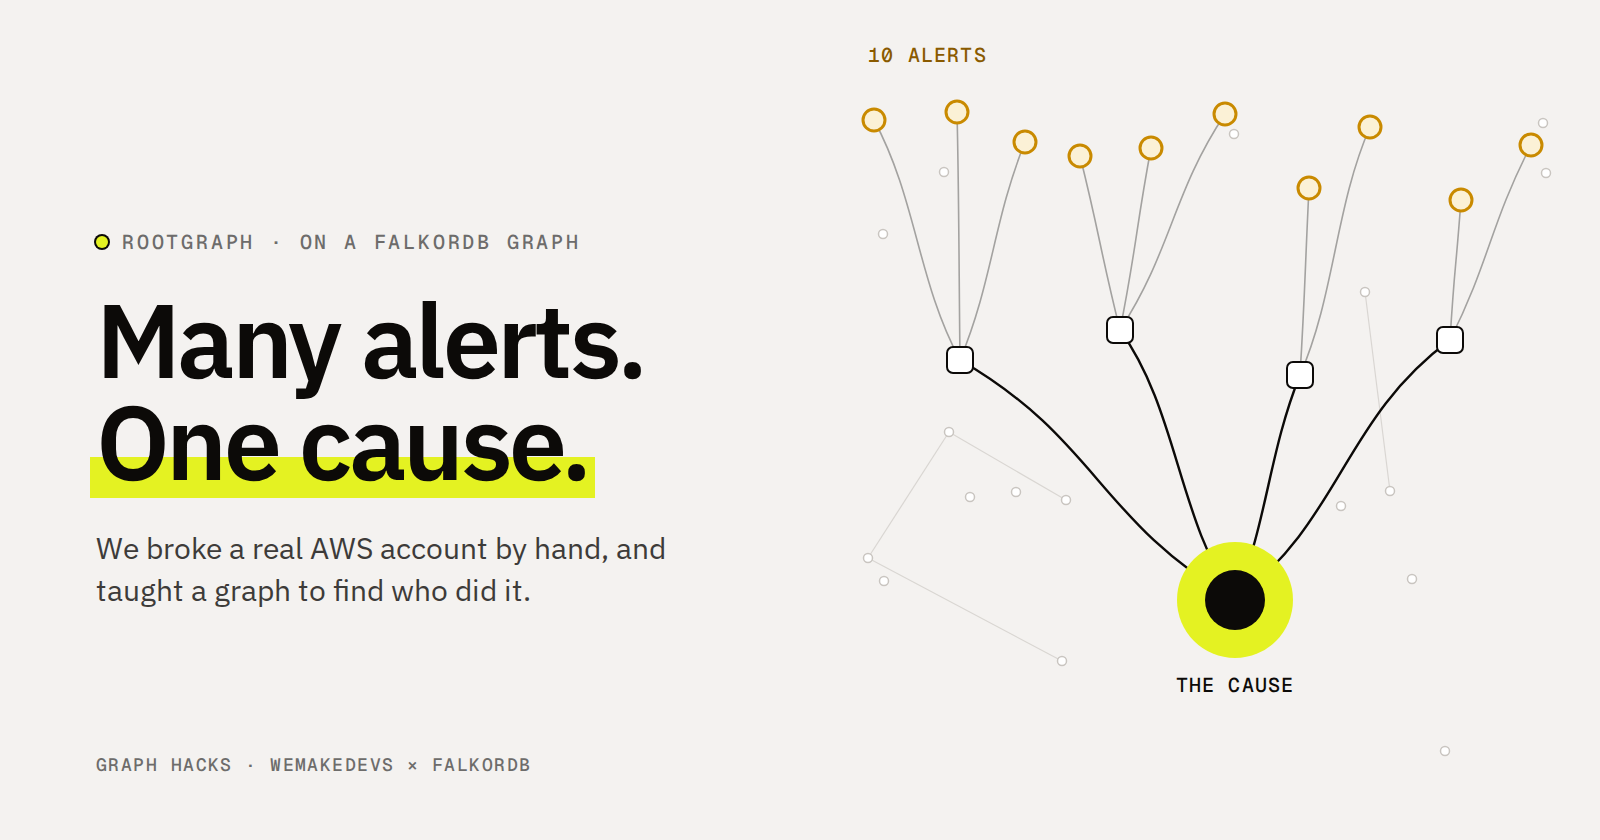
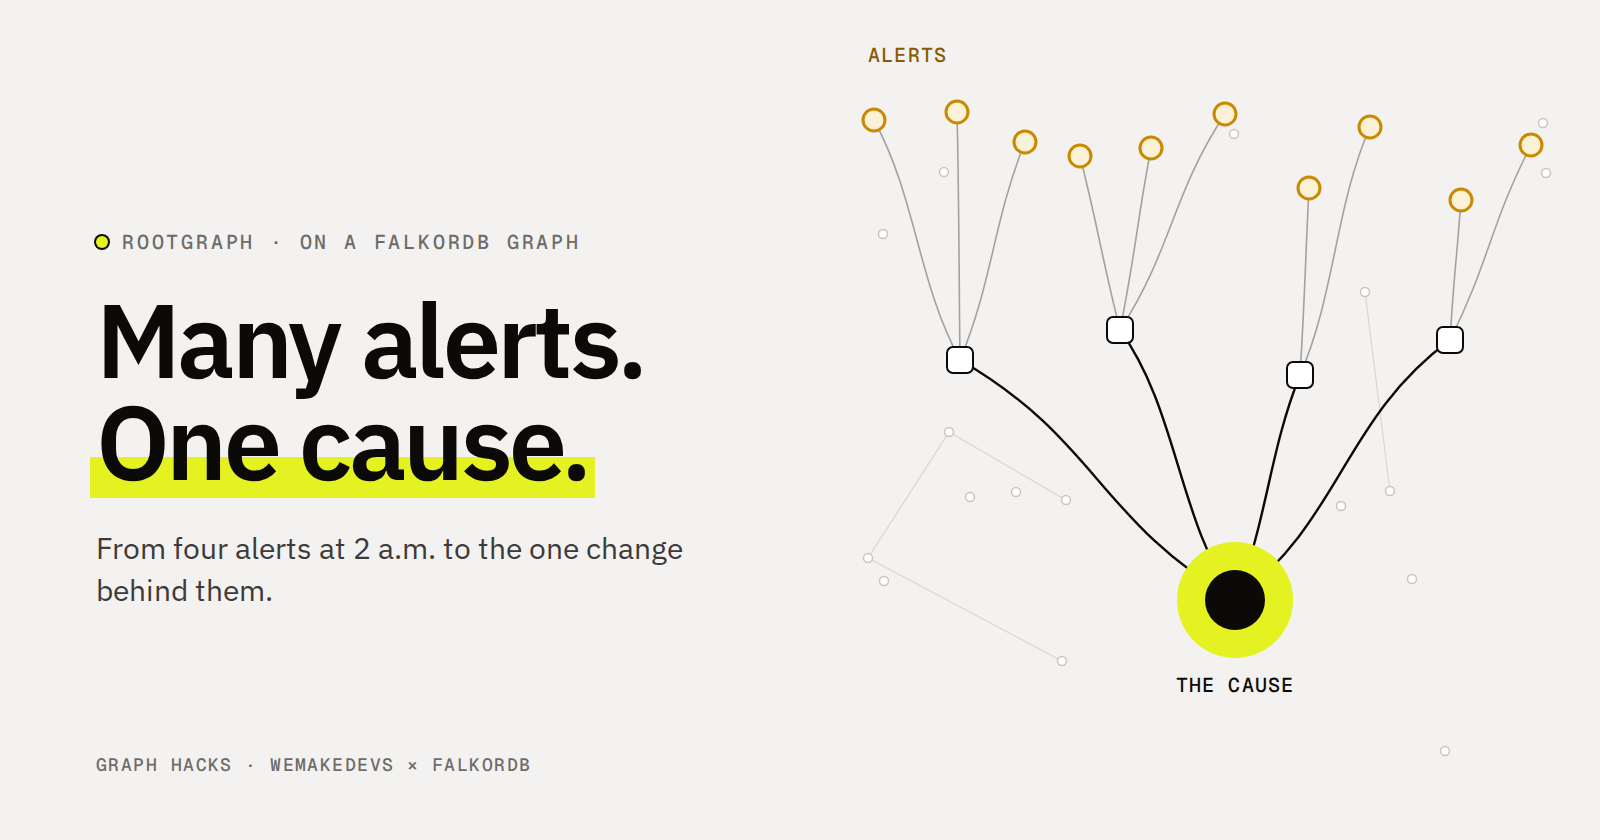
Cover: product tagline instead of the build story

Changed region(s): [[0.0625, 0.619, 0.4375, 0.7429], [0.5312, 0.031, 0.625, 0.0929]]

diff --git a/docs/img/cover/cover.py b/docs/img/cover/cover.py
@@ -31,7 +31,7 @@ for a in alerts:
     svg.append(f'<circle cx="{a[0]:.0f}" cy="{a[1]:.0f}" r="11" class="alert"/>')
 svg.append(f'<circle cx="{cause[0]}" cy="{cause[1]}" r="30" class="cause"/>')
 svg.append(f'<text x="{cause[0]}" y="{cause[1] + 92}" class="lbl">the cause</text>')
-svg.append(f'<text x="{alerts[0][0] - 6:.0f}" y="62" class="lbl l">10 alerts</text>')
+svg.append(f'<text x="{alerts[0][0] - 6:.0f}" y="62" class="lbl l">alerts</text>')
 html = f"""<html><head>
 <link href="https://fonts.googleapis.com/css2?family=IBM+Plex+Sans:wght@400;500;600&family=Geist+Mono:wght@500&display=swap" rel="stylesheet">
 <style>
@@ -54,7 +54,7 @@ svg{{position:absolute;inset:0}}
 <svg viewBox="0 0 {W} {H}">{''.join(svg)}</svg>
 <div class="txt"><div class="eye"><i></i>rootgraph · on a FalkorDB graph</div>
 <h1>Many alerts.<br><span>One cause.</span></h1>
-<p>We broke a real AWS account by hand, and taught a graph to find who did it.</p></div>
+<p>From four alerts at 2 a.m. to the one change behind them.</p></div>
 <div class="foot">Graph Hacks · WeMakeDevs × FalkorDB</div>
 </div></body></html>"""
 out = pathlib.Path(__file__).parent
